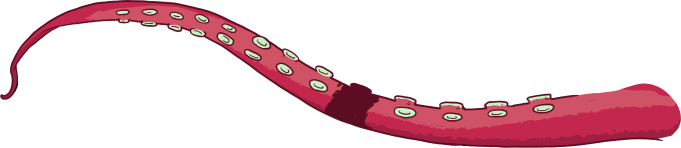
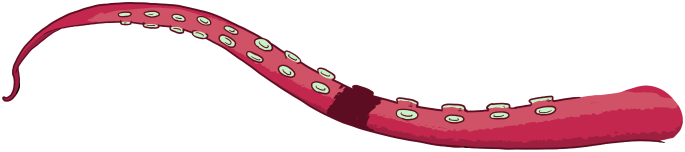
Updating all the images to be super lightweight with tinypng and some stuff. This will have to be done every time new sprites are made before pushing.

diff --git a/css/bloop.css b/css/bloop.css
@@ -1,12 +1,12 @@
 /* Animations */
 /* Props */
 .bloop2x-sprite {
-  background-image: url('../img/bloop2x-s4b60365d9b.png');
+  background-image: url('../img/bloop2x-s3e56bf6dfc.png');
   background-repeat: no-repeat;
 }
 
 .bloop-sprite, .bloop_body, .bloop_siphon, .bloop_eye, .bloop_tentacle1, .bloop_arm5, .bloop_arm7, .bloop_arm6, .bloop_arm8, .bloop_tentacle2, .bloop_arm3 {
-  background-image: url('../img/bloop-s3e7bcbcb08.png');
+  background-image: url('../img/bloop-s3db17e661f.png');
   background-repeat: no-repeat;
 }
 
@@ -87,19 +87,19 @@
 }
 
 .bloop_body {
-  width: 86.17059%;
-  height: 92.35105%;
-  background-position: 0 53.52349%;
+  width: 86.35214%;
+  height: 92.71698%;
+  background-position: 0 100%;
   background-size: 100% auto;
   top: 0;
   right: 0;
 }
 
 .bloop_siphon {
-  width: 3.85805%;
-  height: 10.56617%;
-  background-position: 0 70.83588%;
-  background-size: 2234.11765% auto;
+  width: 4.0396%;
+  height: 10.9321%;
+  background-position: 1.98456% 20.36082%;
+  background-size: 2138.20225% auto;
   top: 71.46922%;
   left: 42.44097%;
 }
@@ -123,10 +123,10 @@
   }
 }
 .bloop_eye {
-  width: 1.45244%;
-  height: 2.88168%;
-  background-position: 0 68.05473%;
-  background-size: 5934.375% auto;
+  width: 1.634%;
+  height: 3.24761%;
+  background-position: 0 19.65174%;
+  background-size: 5286.11111% auto;
   top: 66.76151%;
   left: 37.16632%;
 }
@@ -176,10 +176,10 @@
   }
 }
 .bloop_tentacle1 {
-  width: 23.69294%;
-  height: 48.66841%;
-  background-position: 0 85.25507%;
-  background-size: 363.7931% auto;
+  width: 23.87449%;
+  height: 49.03434%;
+  background-position: 52.14234% 24.79079%;
+  background-size: 361.78707% auto;
   top: 18.88257%;
   left: 21.70175%;
   -webkit-transform-origin: 50% 100%;
@@ -216,10 +216,10 @@
   }
 }
 .bloop_arm5 {
-  width: 20.12992%;
-  height: 42.99653%;
-  background-position: 0 4.54856%;
-  background-size: 427.7027% auto;
+  width: 20.31148%;
+  height: 43.36246%;
+  background-position: 0 0;
+  background-size: 424.77679% auto;
   top: 28.06518%;
   left: 8.94507%;
   -webkit-transform-origin: 100% 100%;
@@ -256,10 +256,10 @@
   }
 }
 .bloop_arm7 {
-  width: 28.36798%;
-  height: 21.13234%;
-  background-position: 0 28.23269%;
-  background-size: 303.84% auto;
+  width: 28.54954%;
+  height: 21.49826%;
+  background-position: 35.16484% 0;
+  background-size: 302.54372% auto;
   top: 55.04397%;
   left: 0%;
   -webkit-transform-origin: 100% 100%;
@@ -296,10 +296,10 @@
   }
 }
 .bloop_arm6 {
-  width: 23.98797%;
-  height: 26.1181%;
-  background-position: 0 19.46589%;
-  background-size: 358.97921% auto;
+  width: 24.16952%;
+  height: 26.48403%;
+  background-position: 78.61314% 0;
+  background-size: 357.03565% auto;
   top: 49.224%;
   left: 4.40195%;
   -webkit-transform-origin: 100% 100%;
@@ -336,19 +336,19 @@
   }
 }
 .bloop_arm8 {
-  width: 30.90975%;
-  height: 13.53933%;
-  background-position: 0 34.68885%;
-  background-size: 278.85463% auto;
+  width: 31.09131%;
+  height: 13.90526%;
+  background-position: 65.84565% 43.98955%;
+  background-size: 277.81022% auto;
   top: 65.13192%;
   left: 1.75821%;
 }
 
 .bloop_tentacle2 {
-  width: 36.22024%;
-  height: 38.42243%;
-  background-position: 0 100%;
-  background-size: 237.96992% auto;
+  width: 36.4018%;
+  height: 38.78836%;
+  background-position: 0 49.90119%;
+  background-size: 237.2818% auto;
   top: 61.5882%;
   left: 13.6807%;
   -webkit-transform-origin: 50% 100%;
@@ -385,17 +385,17 @@
   }
 }
 .bloop_arm3 {
-  width: 26.71129%;
-  height: 11.9384%;
-  background-position: 0 0;
-  background-size: 322.41087% auto;
+  width: 26.89285%;
+  height: 12.30433%;
+  background-position: 9.54198% 20.49287%;
+  background-size: 320.91062% auto;
   top: 65.05432%;
   left: 6.72485%;
 }
 
 @media only screen and (-webkit-min-device-pixel-ratio: 1.3), only screen and (min--moz-device-pixel-ratio: 1.3), only screen and (min-device-pixel-ratio: 1.3), only screen and (min-resolution: 124.8dpi), only screen and (min-resolution: 1.3dppx) {
   .bloop_bits {
-    background-image: url('../img/bloop2x-s4b60365d9b.png');
+    background-image: url('../img/bloop2x-s3e56bf6dfc.png');
   }
 }
 /* For the control panel */

diff --git a/scss/bloop.scss b/scss/bloop.scss
@@ -10,13 +10,13 @@ $bloopBody2x: $maxSegmentCharacters * $base-font-size * $maxBloopW * 2; // 4406.
 
 /* Props */
 $bloop2x-use-percentages: true;
-$bloop2x-spacing: 4px;
+$bloop2x-layout: smart;
 @import "bloop2x/*.png";
 $bloop2x-sprite-width: sprite_width($bloop2x-sprites);
 $bloop2x-sprite-height: sprite_height($bloop2x-sprites);
 
 $bloop-use-percentages: true;
-$bloop-spacing: 2px;
+$bloop-layout: smart;
 @import "bloop/*.png";
 $bloop-sprite-width: sprite_width($bloop-sprites);
 
@@ -54,12 +54,7 @@ $bloop-sprite-width: sprite_width($bloop-sprites);
   top: 50%; left: 50%;
   transform: translate(-50%, -50%);
   width: percentage($maxBloopW); padding-top: percentage($bloopHeight/$bloopWidth * $maxBloopW);
-  // max-width: 7792px * .25;
   height: 0;
-  // max-height: 3866px * .25;
-  // .one-off & {
-  //   will-change: transform, opacity;
-  // }
   .in-view & {
     opacity: 1;
     animation:
